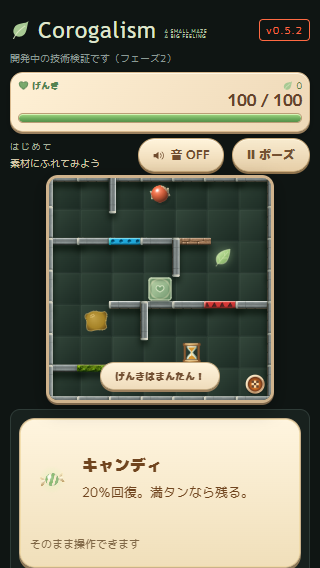
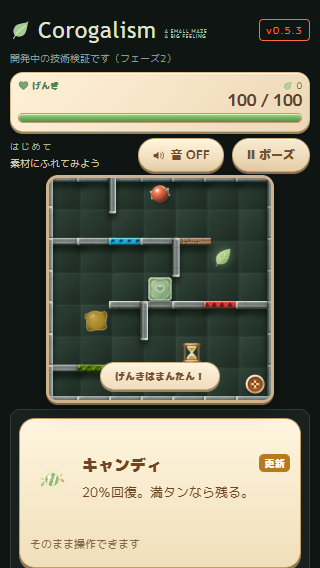
fix(T-243): make tutorial hint updates easier to notice

diff --git a/src/ui/tutorial.js b/src/ui/tutorial.js
@@ -6,7 +6,7 @@ export function createTutorialUi() {
  const panel=document.querySelector('#tutorial-lesson');
  const timing=createLessonTiming(TUTORIAL);
  const entries=new Map([...walls,...items,...floors].map(([id,title,body])=>[id,{title,body}]));
- let lastActive=null,flash=null;let touching=new Set();
+ let lastActive=null,flash=null,noticeMs=0;let touching=new Set();
  function render(){
   const id=timing.active;
   panel.classList.toggle('has-lesson',Boolean(id));
@@ -19,18 +19,21 @@ export function createTutorialUi() {
    panel.querySelector('.tutorial-context').textContent=walls.some(w=>w[0]===id)?'速さと壁の素材で、げんきの減り方が変わります。':['hourglass','rest'].includes(id)?'時間の加算はチャレンジで有効です。':'';
    drawGuideArt(panel.querySelector('canvas'),id);
    panel.dataset.lesson=id;
+   noticeMs=TUTORIAL.updateNoticeMs;
    flash?.cancel();
    if(!matchMedia('(prefers-reduced-motion: reduce)').matches) flash=panel.animate([
-    {boxShadow:'0 3px #8e7957, inset 0 0 0 0px #efd8a0'},
-    {boxShadow:'0 3px #8e7957, inset 0 0 0 3px #efd8a0',offset:.35},
-    {boxShadow:'0 3px #8e7957, inset 0 0 0 0px #efd8a0'},
+    {boxShadow:'0 3px #8e7957, inset 0 0 0 0px #d69426',borderColor:'#c9b18b'},
+    {boxShadow:'0 3px #8e7957, 0 0 10px #e5b75099, inset 0 0 0 3px #d69426',borderColor:'#b67b20',offset:.12},
+    {boxShadow:'0 3px #8e7957, 0 0 10px #e5b75099, inset 0 0 0 3px #d69426',borderColor:'#b67b20',offset:.45},
+    {boxShadow:'0 3px #8e7957, inset 0 0 0 0px #d69426',borderColor:'#c9b18b'},
    ],{duration:TUTORIAL.flashMs,easing:'ease-out'});
   }
+  panel.classList.toggle('is-updated',noticeMs>0);
   lastActive=id;
  }
  return {
   get open(){return Boolean(timing.active);},
-  reset(){timing.reset();touching.clear();flash?.cancel();delete panel.dataset.lesson;render();},
+  reset(){noticeMs=0;timing.reset();touching.clear();flash?.cancel();delete panel.dataset.lesson;render();},
   contact(id){timing.contact(id);},
   inspect(play){
    const a=play.actor,s=play.stage;
@@ -39,6 +42,6 @@ export function createTutorialUi() {
    for(const [id,tile,r] of [['sticky',s.sticky[0],STICKY.radius],['rest',s.rest,REST.radius],['candy',s.recovery,a.r+RECOVERY.radius],['leaf',s.leaf,a.r+LEAF.radius],['hourglass',s.hourglass,a.r+HOURGLASS.radius]])if(near(tile,r)&&!tile.collected){current.add(id);if(!touching.has(id))this.contact(id);}
    touching=current;
   },
-  tick(ms,canAdvance){if(!canAdvance||document.hidden)return;timing.tick(ms);render();},
+  tick(ms,canAdvance){if(!canAdvance||document.hidden)return;noticeMs=Math.max(0,noticeMs-Math.max(0,ms));timing.tick(ms);render();},
  };
 }

diff --git a/style.css b/style.css
@@ -472,3 +472,8 @@ body[data-game-mode="tutorial"] .tutorial-lesson{display:block}
 .tutorial-lesson .tutorial-copy{margin:0;font-size:13px;line-height:1.5}.tutorial-context{margin:3px 0 0;font-size:11px;line-height:1.4}
 .tutorial-play-state{grid-column:1/4;font-size:11px;color:#806847}
 body[data-game-mode="tutorial"] #game-status{display:none}
+
+/* 短い金色の縁取りと更新ラベル。文字や盤面の位置は動かさない。 */
+.tutorial-lesson h2{position:relative;padding-right:42px}
+.tutorial-lesson h2::after{content:'更新';position:absolute;right:0;top:1px;padding:2px 5px;border-radius:5px;background:#b67b20;color:#fff9e7;font-size:10px;line-height:1.4;letter-spacing:.03em;opacity:0}
+.tutorial-lesson.is-updated h2::after{opacity:1}

diff --git a/src/config/gameConfig.js b/src/config/gameConfig.js
@@ -157,4 +157,4 @@ export const STICKY = { firstStage: 3, interval: 8, durationSec: 3, shortenSec: 
   motionThreshold: 6, motionReset: 2, motionGapMs: 250, touchSuppressMs: 450 };
 
 /** チュートリアル。表示前の間と更新時のハイライト時間を調整できる。 */
-export const TUTORIAL = { contactDelayMs: 700, flashMs: 650, hp: 100, minHp: 1, size: 7 };
+export const TUTORIAL = { contactDelayMs: 700, flashMs: 1200, updateNoticeMs: 2400, hp: 100, minHp: 1, size: 7 };

diff --git a/index.html b/index.html
@@ -23,7 +23,7 @@
         <span class="brand-word">Corogalism</span>
       </h1>
       <p class="brand-tagline">A SMALL MAZE<br>A BIG FEELING</p>
-      <span class="badge">v0.5.2</span>
+      <span class="badge">v0.5.3</span>
       </div>
       <p class="sub" id="dev-note">開発中の技術検証です（フェーズ2）</p>
     </div>

diff --git a/precache.js b/precache.js
@@ -1,4 +1,4 @@
-self.PRECACHE_VERSION = 'db021eec0bb244c1';
+self.PRECACHE_VERSION = '1355ddc469163648';
 self.PRECACHE_FILES = [
   "assets/audio/bgm.wav",
   "assets/audio/rolling-loop.wav",

diff --git a/docs/tutorial-continuous.md b/docs/tutorial-continuous.md
@@ -8,3 +8,9 @@
 - 固定面・記録非保存・げんき下限・本編は従来どおり。
 
 検証:121テスト。正式URLの3幅とオフライン確認済み。公開d80d893。
+
+## T-243 更新通知の視認性（v0.5.3）
+
+枠の内側だけでは気づきにくい実機フィードバックを受け、更新時に金色の枠と外側の淡い光を1.2秒表示。見出し右に「更新」を2.4秒表示する。見出しの表示領域は常時確保し、迷路や説明枠の位置・寸法を変えない。動きを減らす設定ではアニメーションを省き、文字の通知を残す。説明の保持・0.7秒後の差し替え・プレイの無停止は維持。
+
+検証: tutorial単体5件、ブラウザ320/390/576幅で通知・継続操作・説明保持・再挑戦・動きを減らす設定を確認。公開確認待ち。

diff --git a/docs/handoff-codex.md b/docs/handoff-codex.md
@@ -1,5 +1,7 @@
 # Codexへの引き継ぎ（2026-09-12 更新）
 
+**v0.5.3（T-243）実装済み・公開確認待ち:** 更新通知を金色の枠1.2秒と「更新」表示2.4秒へ強化。説明保持と無停止の流れは維持。詳細docs/tutorial-continuous.md。
+
 **v0.5.2（T-242）公開確認済み・d80d893:** 説明による停止なし。初回素材のみ0.7秒後に説明を差し替え、枠を淡く光らせる。説明は次の更新まで保持。詳細docs/tutorial-continuous.md。
 
 **v0.5.1（T-241）公開確認済み・565e772:** 標準壁主体の固定面。説明は迷路下へ常設、接触0.7秒後に表示し1秒だけ停止、4秒間表示。説明間隔4秒、ため込みなし。詳細docs/tutorial-pacing.md。

diff --git a/AGENTS.md b/AGENTS.md
@@ -14,6 +14,8 @@
 
 ## 2. 現在の状態
 
+**v0.5.3（T-243）実装済み・公開確認待ち:** 更新通知を金色の枠1.2秒と「更新」表示2.4秒へ強化。説明保持と無停止の流れは維持。詳細docs/tutorial-continuous.md。
+
 **v0.5.2（T-242）公開確認済み・d80d893:** 説明による停止なし。初回素材のみ0.7秒後に説明を差し替え、枠を淡く光らせる。説明は次の更新まで保持。詳細docs/tutorial-continuous.md。
 
 **v0.5.1（T-241）公開確認済み・565e772:** 標準壁主体の固定面。説明は迷路下へ常設、接触0.7秒後に表示し1秒だけ停止、4秒間表示。説明間隔4秒、ため込みなし。詳細docs/tutorial-pacing.md。

diff --git a/CLAUDE.md b/CLAUDE.md
@@ -14,6 +14,8 @@
 
 ## 2. 現在の状態
 
+**v0.5.3（T-243）実装済み・公開確認待ち:** 更新通知を金色の枠1.2秒と「更新」表示2.4秒へ強化。説明保持と無停止の流れは維持。詳細docs/tutorial-continuous.md。
+
 **v0.5.2（T-242）公開確認済み・d80d893:** 説明による停止なし。初回素材のみ0.7秒後に説明を差し替え、枠を淡く光らせる。説明は次の更新まで保持。詳細docs/tutorial-continuous.md。
 
 **v0.5.1（T-241）公開確認済み・565e772:** 標準壁主体の固定面。説明は迷路下へ常設、接触0.7秒後に表示し1秒だけ停止、4秒間表示。説明間隔4秒、ため込みなし。詳細docs/tutorial-pacing.md。

diff --git a/GEMINI.md b/GEMINI.md
@@ -14,6 +14,8 @@
 
 ## 2. 現在の状態
 
+**v0.5.3（T-243）実装済み・公開確認待ち:** 更新通知を金色の枠1.2秒と「更新」表示2.4秒へ強化。説明保持と無停止の流れは維持。詳細docs/tutorial-continuous.md。
+
 **v0.5.2（T-242）公開確認済み・d80d893:** 説明による停止なし。初回素材のみ0.7秒後に説明を差し替え、枠を淡く光らせる。説明は次の更新まで保持。詳細docs/tutorial-continuous.md。
 
 **v0.5.1（T-241）公開確認済み・565e772:** 標準壁主体の固定面。説明は迷路下へ常設、接触0.7秒後に表示し1秒だけ停止、4秒間表示。説明間隔4秒、ため込みなし。詳細docs/tutorial-pacing.md。
